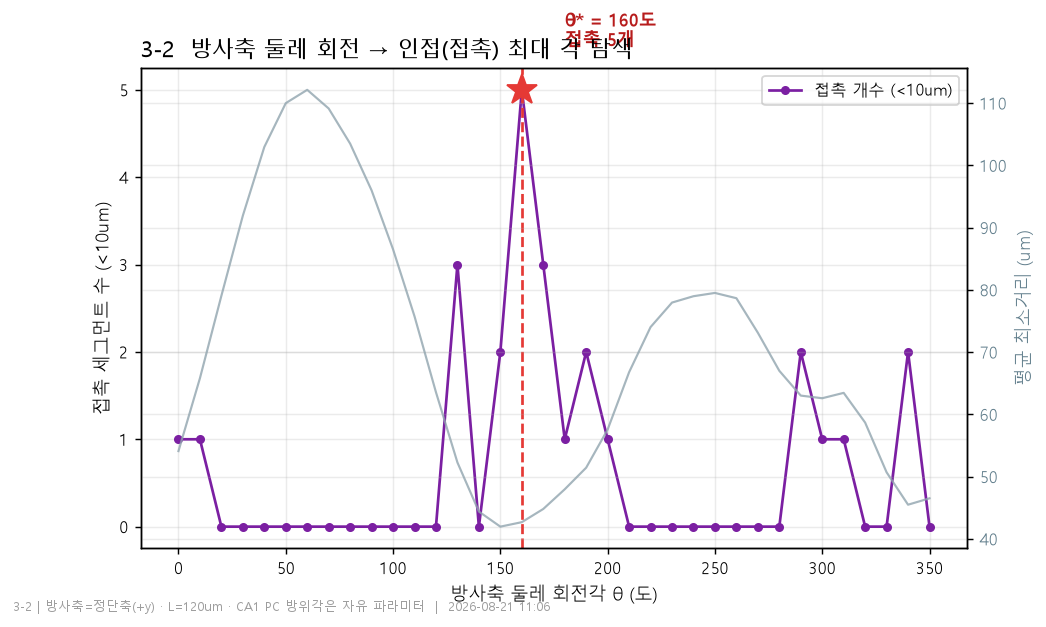
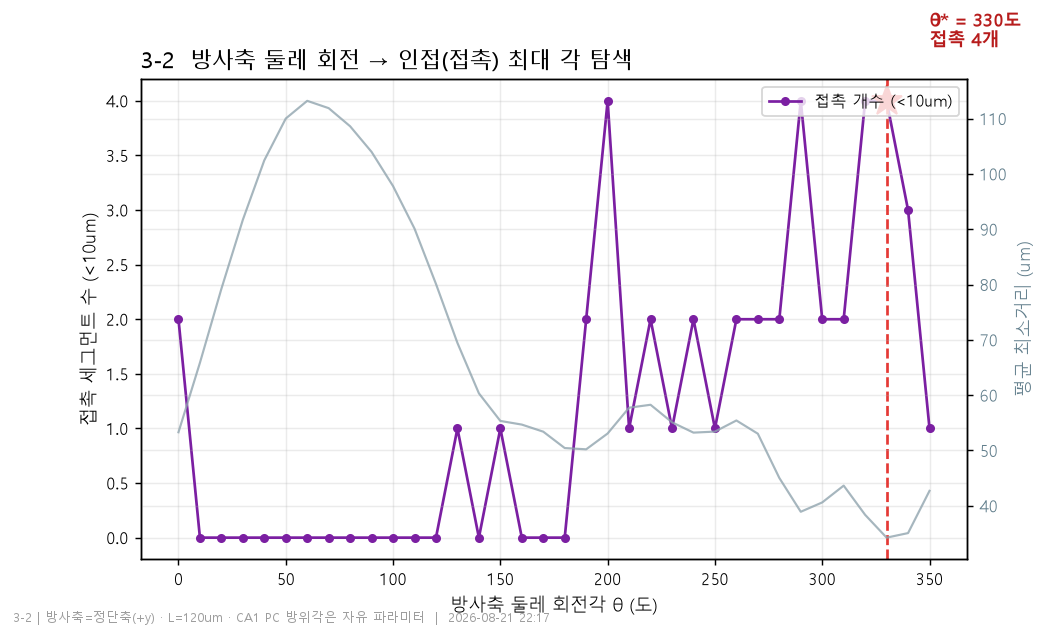
04 3-2 재실행 + D10: 시냅스 표적 구역·개수를 PC->PC 문헌으로 재확정
이전 판은 SC(Schaffer collateral) 전제로 정단 SR 100~300um 에 5개를 놓았다.
D9 로 연결이 PC->PC 로 확정됐으니 SR 배치의 근거가 없다. 문헌으로 다시 잡았다.

문헌 (PubMed 확인):
  Deuchars & Thomson 1996 Neuroscience 74:1009 (PMID 8895869)
    CA1 추체세포 989쌍 -> 단일시냅스 연결 9개(~0.9%, 희소).
    완전 재구성 1쌍: 축삭이 post 3차 기저수상돌기에 접촉 2개(스파인1·shaft1).
    진폭 0.7+-0.5mV(0.17~1.5) · 10-90% 상승 2.7+-0.9ms · 반치폭 16.8+-4.1ms.
    4쌍 전부 짝펄스 억압 -> Ecker Use 0.50/Fac 17(억압형)과 일치.
  Crepel/Khazipov/Ben-Ari 1997 J Neurophysiol 77:2071 (PMID 9114256)
    국소 재귀 축삭은 oriens 통과 · CSD 응답은 정단 근위 50~150um.
  Ecker 2020 Fig.3b: E->E 연결당 시냅스 1.3.

조치:
  3-2  표적 = 기저수상돌기 전체 + 정단 근위 50~150um · 유지 2개
       재실행 결과 theta*=330도(표적 접촉 4개), 유지 2개가 둘 다 기저수상돌기
       dend[3] 144.3um / dend[23] 171.7um · 접촉 7.8/6.2um · 지연 0.76/0.74ms
       -> Deuchars 의 EM 관찰과 일치
  geometry.yaml  sr_band_um 삭제 -> target_zones + n_syn_per_connection: 2
                 시냅스 5개(apic) -> 2개(dend)
  refdata  DEUCHARS1996 추가(이 벤치의 uEPSP 기준). SAYER1990 은 SC 참고용으로 격하.
  DECISIONS  D10 추가 · 미결#10 해소

★ 파생: 3-5 의 '진폭이 논문 평균의 10.2배' 결론은 무효다. 잘못된 문헌(Sayer=SC)과
  비교했고, 시냅스 수도 5->2 로 줄어 진폭이 약 2.5배 낮아진다(추정 0.54mV,
  Deuchars 0.7+-0.5 범위 안). 3-7 g 재보정 근거가 사실상 사라짐 -> 재실행 후 재판단.

Bench 가 새 구획(dend[3]·dend[23])을 정상 해석함을 확인.

diff --git a/04_Synaptic_plasticity_Simulation/03_synapse/2_placement/3-2_placement.py b/04_Synaptic_plasticity_Simulation/03_synapse/2_placement/3-2_placement.py
@@ -6,9 +6,21 @@
          (2) 소마를 방사축에 수직으로 거리 L 만큼 벌려 인접.
          (3) pre 를 방사축(+y) 둘레로 회전각 θ 스윕 -> 두 수상돌기 필드의 접촉(apposition)이
              최대가 되는 θ* 선택. (방위각은 생물학적으로 자유 파라미터)
-         (4) θ* 배치에서 post SR 정단이 pre 와 가장 가까운 지점에 시냅스, 과잉은 가지치기.
+         (4) θ* 배치에서 ★PC->PC 표적 구역★ 안에서 pre 와 가장 가까운 지점에 시냅스, 나머지는 가지치기.
          (5) 전도지연 = pre소마->시냅스 3D 거리 / 전도속도 + 시냅스지연.
-근거   : docs/DECISIONS.md D8 (2026-08-21 재갱신)
+
+★표적 구역·개수는 PC->PC 문헌 근거다 (D10):
+  - Deuchars & Thomson 1996 Neuroscience 74:1009 (PMID 8895869) — CA1 추체세포 989쌍 중
+    단일시냅스 연결 9개(희소). 완전 재구성된 1쌍에서 전시냅스 축삭이 post 의 **3차 기저수상돌기**에
+    접촉 **2개**(스파인 1·shaft 1). 짝펄스 억압 확인.
+  - Crepel, Khazipov & Ben-Ari 1997 J Neurophysiol 77:2071 (PMID 9114256) — CA1 국소 재귀
+    축삭은 stratum oriens 를 지나고(oriens TTX 로 다시냅스 성분 감소), 전류원밀도상 응답은
+    **정단 근위 50~150um**(추체층 아래 radiatum)에서 생성.
+  - Ecker 2020 Fig.3b — E->E 연결당 시냅스 수 1.3.
+  => 표적 = 기저수상돌기 전체 + 정단 근위 50~150um · 유지 개수 = 2.
+  ⚠ 이전 판은 SC(Schaffer collateral) 전제로 정단 SR 100~300um 에 5개를 놓았다. SC 는 이 벤치의
+     연결이 아니므로(D9) 폐기했다.
+근거   : docs/DECISIONS.md D8(방사축 정렬·회전) · D9(PC->PC) · D10(표적 구역·개수)
 ★사실  : 04는 아틀라스를 로드하지 않으므로(독립 트랙) 세포 고유 정단축을 방사축 대응물로 쓴다.
          전달 자체는 NetCon(불가피). 이 단계가 정하는 것은 위치·방위·지연이다.
 결과   : figures/3-2_syn_sites.png · figures/3-2_rotation.png · figures/3-2_placement.json
@@ -38,11 +50,13 @@ from lib import cells                        # noqa: E402
 from lib import morphology as mo             # noqa: E402
 from lib.nrnenv import h                     # noqa: E402
 
-SR_MIN, SR_MAX = 100.0, 300.0
+# PC->PC 표적 구역 (D10, 문헌 근거는 위 docstring)
+APIC_PROX = (50.0, 150.0)   # 정단 근위 (Crepel 1997 CSD)
+USE_BASAL = True            # 기저수상돌기 전체 (Deuchars & Thomson 1996 EM)
 SOMA_LATERAL_L = 120.0    # 소마-소마 측방거리 um (모델링 값, 수상돌기 필드 겹침 범위)
 TOUCH_R = 10.0            # 접촉(apposition) 반경 um (3D)
 ANGLE_STEP = 10           # 회전 스윕 간격 도
-N_KEEP = 5
+N_KEEP = 2                # Deuchars 1996 재구성 쌍 = 접촉 2개 (Ecker E->E 평균 1.3)
 V_COND = 0.5             # 전도속도 um/us = 0.5 m/s
 SYN_DELAY = 0.5          # 시냅스 지연 ms
 
@@ -65,17 +79,25 @@ def points_and_transform(cell):
     return m, c, R
 
 
-def apical_sr_segs(post, c, R):
+def target_segs(post, c, R):
+    """PC->PC 표적 구역의 post 세그먼트 (D10): 기저수상돌기 전체 + 정단 근위 50~150um."""
     h.distance(0, post.soma[0](0.5))
     out = []
     for s in post.all:
-        if ".apic" not in s.name():
+        nm = s.name()
+        if ".dend" in nm:
+            dom = "basal" if USE_BASAL else None
+        elif ".apic" in nm:
+            d0 = h.distance(s(0.5))
+            dom = "apical" if APIC_PROX[0] <= d0 <= APIC_PROX[1] else None
+        else:
+            dom = None
+        if dom is None:
             continue
         d = h.distance(s(0.5))
-        if SR_MIN <= d <= SR_MAX:
-            i = s.n3d() // 2
-            p = mo.apply_transform(np.array([s.x3d(i), s.y3d(i), s.z3d(i)]), c, R)
-            out.append((s(0.5), d, p))
+        i = s.n3d() // 2
+        p = mo.apply_transform(np.array([s.x3d(i), s.y3d(i), s.z3d(i)]), c, R)
+        out.append((s(0.5), d, p, dom))
     return out
 
 
@@ -111,9 +133,11 @@ def main():
     m_pre0, _, _ = points_and_transform(pre)
     pre_pts0 = m_pre0["xyz"].copy()           # 회전 전(소마 원점, 정단 +y)
 
-    sr_segs = apical_sr_segs(post, cP, RP)
-    sr_pos = np.array([p for _, _, p in sr_segs])
-    print(f"  post SR 정단 세그먼트 {len(sr_segs)}개 · 소마-소마 측방 L={SOMA_LATERAL_L:.0f}um")
+    sr_segs = target_segs(post, cP, RP)
+    sr_pos = np.array([p for _, _, p, _ in sr_segs])
+    n_bas = sum(1 for t in sr_segs if t[3] == "basal")
+    print(f"  PC->PC 표적 세그먼트 {len(sr_segs)}개 "
+          f"(기저 {n_bas} · 정단근위 {len(sr_segs)-n_bas}) · 소마-소마 측방 L={SOMA_LATERAL_L:.0f}um")
 
     # 회전각 스윕: 방사축 둘레 θ 마다 접촉 개수
     angles = np.arange(0, 360, ANGLE_STEP)
@@ -142,11 +166,13 @@ def main():
 
     syn = []
     for i in keep_i:
-        seg, d, p = sr_segs[i]
+        seg, d, p, dom = sr_segs[i]
         dist3d = float(np.linalg.norm(p - pre_soma3d))
-        syn.append(dict(seg=seg, path=d, pos=p, touch=float(mind[i]),
+        syn.append(dict(seg=seg, path=d, pos=p, touch=float(mind[i]), dom=dom,
                         dist3d=dist3d, delay=dist3d / (V_COND * 1000.0) + SYN_DELAY))
-    print(f"  유지 {len(syn)}개 · 접촉거리 {[round(s['touch'],1) for s in syn]} um · "
+    print(f"  유지 {len(syn)}개 {[s['dom'] for s in syn]} · "
+          f"경로거리 {[round(s['path']) for s in syn]} um · "
+          f"접촉거리 {[round(s['touch'],1) for s in syn]} um · "
           f"지연 {[round(s['delay'],2) for s in syn]} ms")
 
     # pre 형태 dict (그리기용, θ* 배치)
@@ -188,9 +214,15 @@ def main():
     axA.set_aspect("equal", adjustable="box"); axA.set_xticks([]); axA.set_yticks([]); axA.grid(False)
     for s in axA.spines.values():
         s.set_color("#dddddd")
-    axA.axhspan(SR_MIN, SR_MAX, color="#ffb300", alpha=0.10, zorder=0)
-    axA.text(allx.max() + 35, (SR_MIN + SR_MAX) / 2, "SR", fontsize=9, color="#b26a00",
+    axA.axhspan(APIC_PROX[0], APIC_PROX[1], color="#ffb300", alpha=0.12, zorder=0)
+    axA.text(allx.max() + 35, sum(APIC_PROX) / 2,
+             f"정단 근위\n{APIC_PROX[0]:.0f}~{APIC_PROX[1]:.0f}um", fontsize=8, color="#b26a00",
              va="center", ha="right")
+    ybas = m_post["xyz"][m_post["type"] == mo.BASAL, 1]
+    if len(ybas):
+        axA.axhspan(float(ybas.min()), 0.0, color="#4fc3f7", alpha=0.10, zorder=0)
+        axA.text(allx.max() + 35, float(ybas.min()) / 2, "기저수상돌기", fontsize=8,
+                 color="#0277bd", va="center", ha="right")
     if prune_i:
         pp = np.array([sr_segs[i][2][:2] for i in prune_i])
         axA.scatter(pp[:, 0], pp[:, 1], s=55, marker="x", color="#9e9e9e", lw=1.7, zorder=5)
@@ -228,7 +260,9 @@ def main():
     ypos = np.arange(len(syn))
     delays = [s["delay"] for s in syn]
     axB.barh(ypos, delays, color="#7b1fa2", alpha=0.85)
-    axB.set_yticks(ypos); axB.set_yticklabels([f"{round(s['path'])}um" for s in syn], fontsize=9)
+    axB.set_yticks(ypos)
+    axB.set_yticklabels([f"{'기저' if s['dom']=='basal' else '정단'} {round(s['path'])}um"
+                         for s in syn], fontsize=9)
     axB.invert_yaxis()
     axB.set_xlabel("전도지연 (ms) = 거리/속도 + 시냅스지연")
     axB.set_ylabel("시냅스 (post 소마 경로거리)")
@@ -241,16 +275,22 @@ def main():
     fig2.suptitle(f"3-2  방사축 정렬·회전 배치 (θ*={theta:.0f}도) → 접촉 시냅스 {len(syn)}개",
                   fontsize=12.5, y=0.98)
     fig2.subplots_adjust(top=0.88, bottom=0.20, wspace=0.18)
-    plots.stamp(fig2, f"3-2 | θ*={theta:.0f}도 · L={SOMA_LATERAL_L:.0f}um · 전도속도 {V_COND}um/us · SR {SR_MIN:.0f}~{SR_MAX:.0f}um")
+    plots.stamp(fig2, f"3-2 | PC->PC 표적: 기저 + 정단근위 {APIC_PROX[0]:.0f}~{APIC_PROX[1]:.0f}um · "
+                      f"유지 {N_KEEP}개 (Deuchars1996) · θ*={theta:.0f}도 · L={SOMA_LATERAL_L:.0f}um")
     plots.save(fig2, outdir, "3-2_syn_sites.png")
 
-    out = dict(pre=cfg["pre_tag"], post=cfg["post_tag"], sr_band=[SR_MIN, SR_MAX],
+    out = dict(pre=cfg["pre_tag"], post=cfg["post_tag"],
+               target_zones=dict(basal=USE_BASAL, apical_proximal_um=list(APIC_PROX)),
+               n_keep=N_KEEP,
+               basis="Deuchars&Thomson1996 PMID8895869 (기저 3차, 접촉 2) · "
+                     "Crepel1997 PMID9114256 (정단근위 50-150um) · Ecker2020 Fig3b (E->E 1.3)",
                soma_lateral_L_um=SOMA_LATERAL_L, touch_r_um=TOUCH_R, angle_step_deg=ANGLE_STEP,
                best_angle_deg=theta, best_touch_count=int(counts[best]),
                best_mean_mindist_um=round(float(meandist[best]), 1),
                v_cond_um_per_us=V_COND, syn_delay_ms=SYN_DELAY,
                kept=len(syn),
                synapses=[dict(path_um=round(s["path"], 1), touch_um=round(s["touch"], 1),
+                              domain=s["dom"],
                               dist3d_um=round(s["dist3d"], 1), delay_ms=round(s["delay"], 2),
                               section=s["seg"].sec.name().split(".")[-1]) for s in syn])
     jpath = os.path.join(outdir, "3-2_placement.json")

diff --git a/04_Synaptic_plasticity_Simulation/lib/refdata.py b/04_Synaptic_plasticity_Simulation/lib/refdata.py
@@ -7,7 +7,26 @@
 출처(범주): Hippocampome.org · Migliore et al. 2018 · Magee & Cook 2000 · full-scale CA1 논문.
 """
 
-# 단일 연결 uEPSP (CA3->CA1) — Sayer, Friedlander & Redman 1990 J Neurosci 10(3):826
+# ★ 이 벤치(CA1 PC -> CA1 PC)의 uEPSP 기준 문헌 — Deuchars & Thomson 1996
+#   Neuroscience 74(4):1009-1018 (PMID 8895869, DOI 10.1016/0306-4522(96)00251-5)
+#   성체 흰쥐 CA1 추체세포 989쌍 동시 세포내기록 -> 단일시냅스 흥분성 연결 9개(6쌍 분석가능).
+#   post Vm -67~-70mV 에서: 진폭 0.7±0.5 mV (0.17~1.5) · 10-90% 상승 2.7±0.9 ms (1.5~3.8)
+#   · 반치폭 16.8±4.1 ms (11.6~25). AMPA+NMDA 매개. 4쌍 전부 짝펄스 억압.
+#   완전 재구성된 1쌍: 전시냅스 축삭이 post 3차 기저수상돌기에 접촉 2개(스파인1·shaft1),
+#   그 쌍의 EPSP 진폭 1.5mV · 상승 2.8ms · 반치폭 11.6ms.
+#   ⚠ 상승시간은 10-90% 기준이다(우리 measure 는 20-80%) -> 우리 값이 체계적으로 작게 나온다.
+DEUCHARS1996 = {
+    "amp_mV":       {"min": 0.17, "max": 1.5, "mean": 0.7, "sd": 0.5},
+    "rise_ms":      {"mean": 2.7, "sd": 0.9, "min": 1.5, "max": 3.8, "note": "10-90%"},
+    "halfwidth_ms": {"mean": 16.8, "sd": 4.1, "min": 11.6, "max": 25.0},
+    "n_contacts":   2,          # 완전 재구성 쌍의 접촉 수 (기저수상돌기)
+    "n_pairs_tested": 989, "n_connected": 9,
+    "src": "Deuchars & Thomson 1996 Neuroscience 74(4):1009 (PMID 8895869)",
+}
+
+# 참고(다른 연결): 단일 연결 uEPSP CA3->CA1 = Schaffer collateral
+#   ⚠ 이 벤치의 연결이 아니다(D9). SC 자극 실험과 대조할 때만 참고로 쓴다.
+# Sayer, Friedlander & Redman 1990 J Neurosci 10(3):826
 #   PubMed 확인(PMID 2319304, DOI 10.1523/JNEUROSCI.10-03-00826.1990). 기니피그 슬라이스.
 #   71개 EPSP: 진폭 30~665 uV(평균 131), 상승시간 3.9±1.8 ms, 반치폭 19.5±8.0 ms.
 #   양자증분 278 uV. ★ '단일 CA3 세포 활성화'로 유발 = 연결 단위(다접촉 포함).

diff --git a/04_Synaptic_plasticity_Simulation/docs/DECISIONS.md b/04_Synaptic_plasticity_Simulation/docs/DECISIONS.md
@@ -203,6 +203,38 @@ g_hat 0.6 nS · tau_d_AMPA 3.0 ms · Use 0.50 · Dep 671 ms · Fac 17 ms · Nrrp
 
 ---
 
+## D10 — 시냅스 표적 구역·개수는 PC->PC 문헌으로 정한다
+
+**결정 (2026-08-21).** 시냅스는 **post 기저수상돌기 + 정단 근위 50~150um** 안에 놓고,
+**연결당 2개**만 유지한다. 이전 판(정단 SR 100~300um · 5개)은 폐기한다.
+
+**문헌 근거.**
+- **Deuchars & Thomson 1996** Neuroscience 74(4):1009 (PMID 8895869) — 성체 흰쥐 CA1 추체세포
+  **989쌍 중 단일시냅스 연결 9개**(약 0.9%, 재귀 연결이 희소함을 실측). 완전 재구성된 1쌍에서
+  전시냅스 축삭이 post 의 **3차 기저수상돌기에 접촉 2개**(스파인 1·shaft 1). 4쌍 전부 짝펄스 억압
+  -> Ecker Table3 PC->PC(Use 0.50 / Fac 17, 억압형)와 방향 일치.
+- **Crepel, Khazipov & Ben-Ari 1997** J Neurophysiol 77:2071 (PMID 9114256) — CA1 국소 재귀
+  축삭은 **stratum oriens** 를 지난다(oriens 국소 TTX 로 다시냅스 성분 감소, 역방향 자극으로도
+  유발). 전류원밀도상 응답은 **정단 근위 50~150um**(추체층 아래 radiatum)에서 생성.
+- **Ecker 2020 Fig.3b** — E->E 연결당 시냅스 수 1.3.
+
+**왜 이전 판이 틀렸나.** 정단 SR 100~300um 은 **Schaffer collateral(CA3->CA1)이 접속하는 층**이다.
+D9 로 연결이 PC->PC 로 확정된 이상 SR 배치의 근거가 없다. 개수 5 도 해부 근거가 아니라
+"회전각 스윕에서 접촉이 최대가 되는 수"였다.
+
+**재실행 결과 (3-2).** θ* = 330도(표적 구역 접촉 4개) · 유지 2개가 **둘 다 기저수상돌기**
+(dend[3] 경로거리 144.3um · dend[23] 171.7um, 접촉거리 7.8/6.2um, 지연 0.76/0.74ms)
+-> Deuchars 1996 의 EM 관찰(기저수상돌기 접촉)과 일치한다.
+
+**파생 영향 — 3-5 의 "g 가 10배 크다"는 결론은 무효.**
+3-5 는 uEPSP 를 **Sayer 1990(CA3->CA1 = SC)** 과 비교해 "논문 평균의 10.2배"라 판정했다.
+이 벤치의 올바른 문헌은 **Deuchars & Thomson 1996(PC->PC)** 이고 그 값은 0.7±0.5 mV(0.17~1.5)다.
+게다가 시냅스 수가 5 -> 2 로 줄어 진폭이 약 2.5배 낮아진다(3-3 실측 5개 1.358mV -> 2개 약 0.54mV 추정).
+=> 3-7 의 g 재보정 근거가 사실상 사라진다. 재실행 후 실측으로 다시 판단한다.
+`lib/refdata.DEUCHARS1996` 에 기준값 등록.
+
+---
+
 ## 미결
 
 | # | 항목 | 해결 단계 |
@@ -215,4 +247,5 @@ g_hat 0.6 nS · tau_d_AMPA 3.0 ms · Use 0.50 · Dep 671 ms · Fac 17 ms · Nrrp
 | 5 | theta 부과 기본 방식 — 정현파 전류 vs 억제성 시냅스 리듬 | 4-3 |
 | 6 | 저빈도 LTD(6-7) 실행 티어 | 4-6 런타임 실측 후 |
 | 7 | ~~기본 시냅스 클래스~~ → **해소. D9 로 PC->PC 확정**(SC->PC 삭제) | ~~3-1~~ 완료 |
+| 10 | ~~시냅스 표적 구역·개수~~ → **해소. D10** (기저+정단근위 50~150um · 2개, Deuchars1996·Crepel1997) | 완료 |
 | 9 | **NMDA 동역학** — Ecker 2020 은 PC->PC NMDA 를 tau_r 3.9 / tau_d 148.5 ms 로 명시(§2.3). 현재 9.0/61.0(Andrasfalvy&Magee 2001, GB mod 검증본과 일치). 우리 연결의 논문값은 전자이므로 근거상 우세하나 채택 시 NMDA 칼슘이 크게 늘어 3-3~3-6 재실행+가소성 문턱 재검증 필요 | 3-1 재실행 전 |
